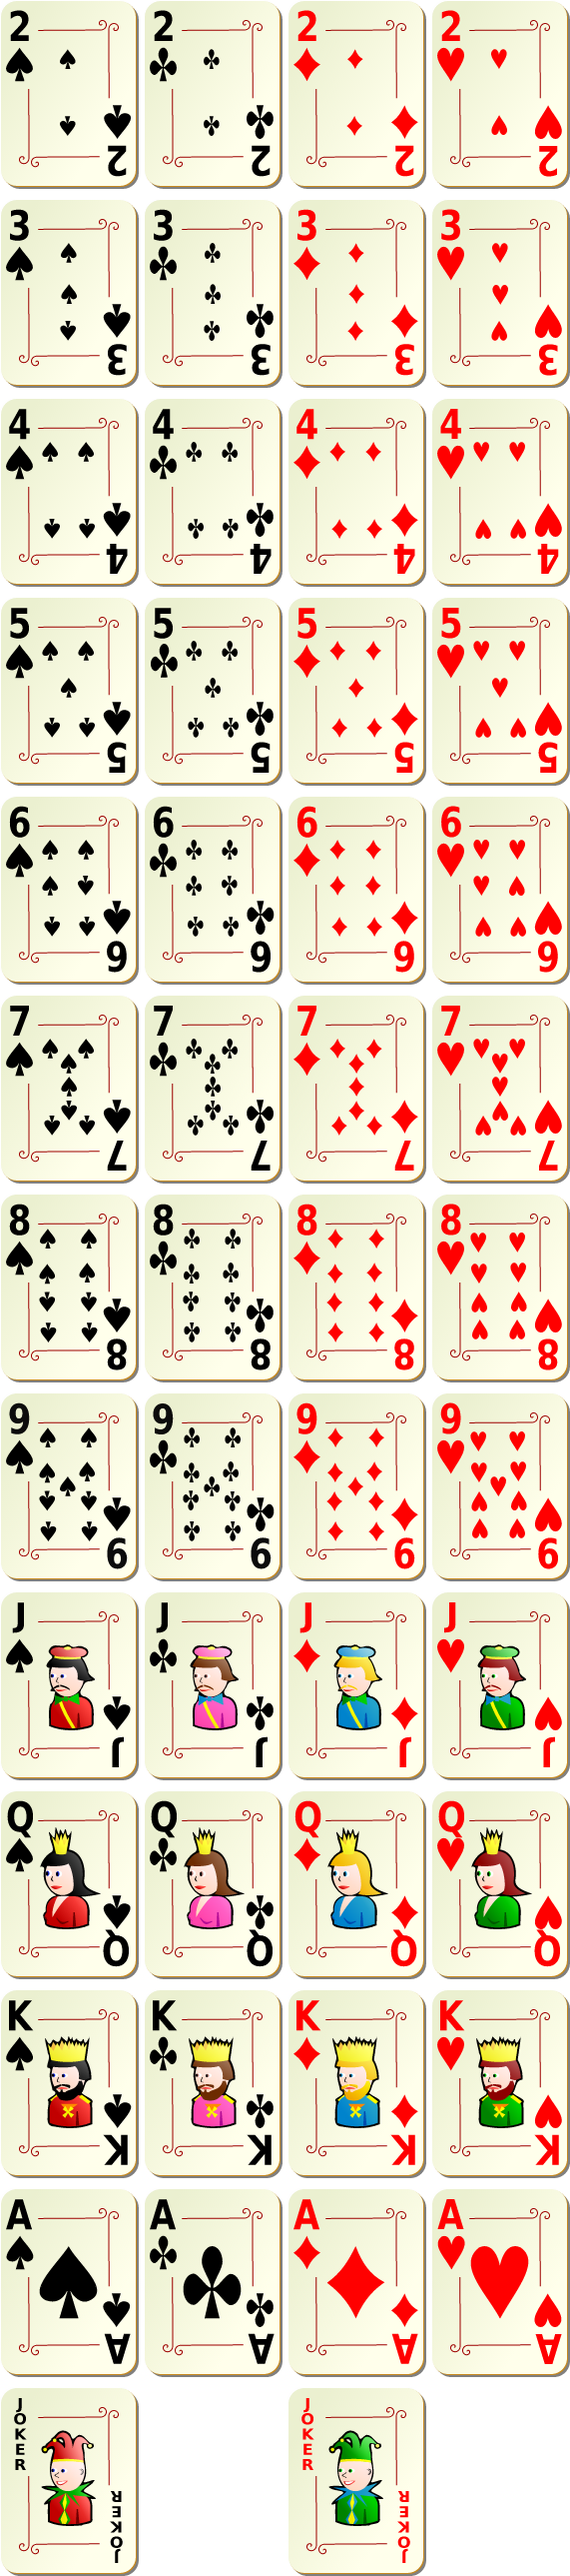
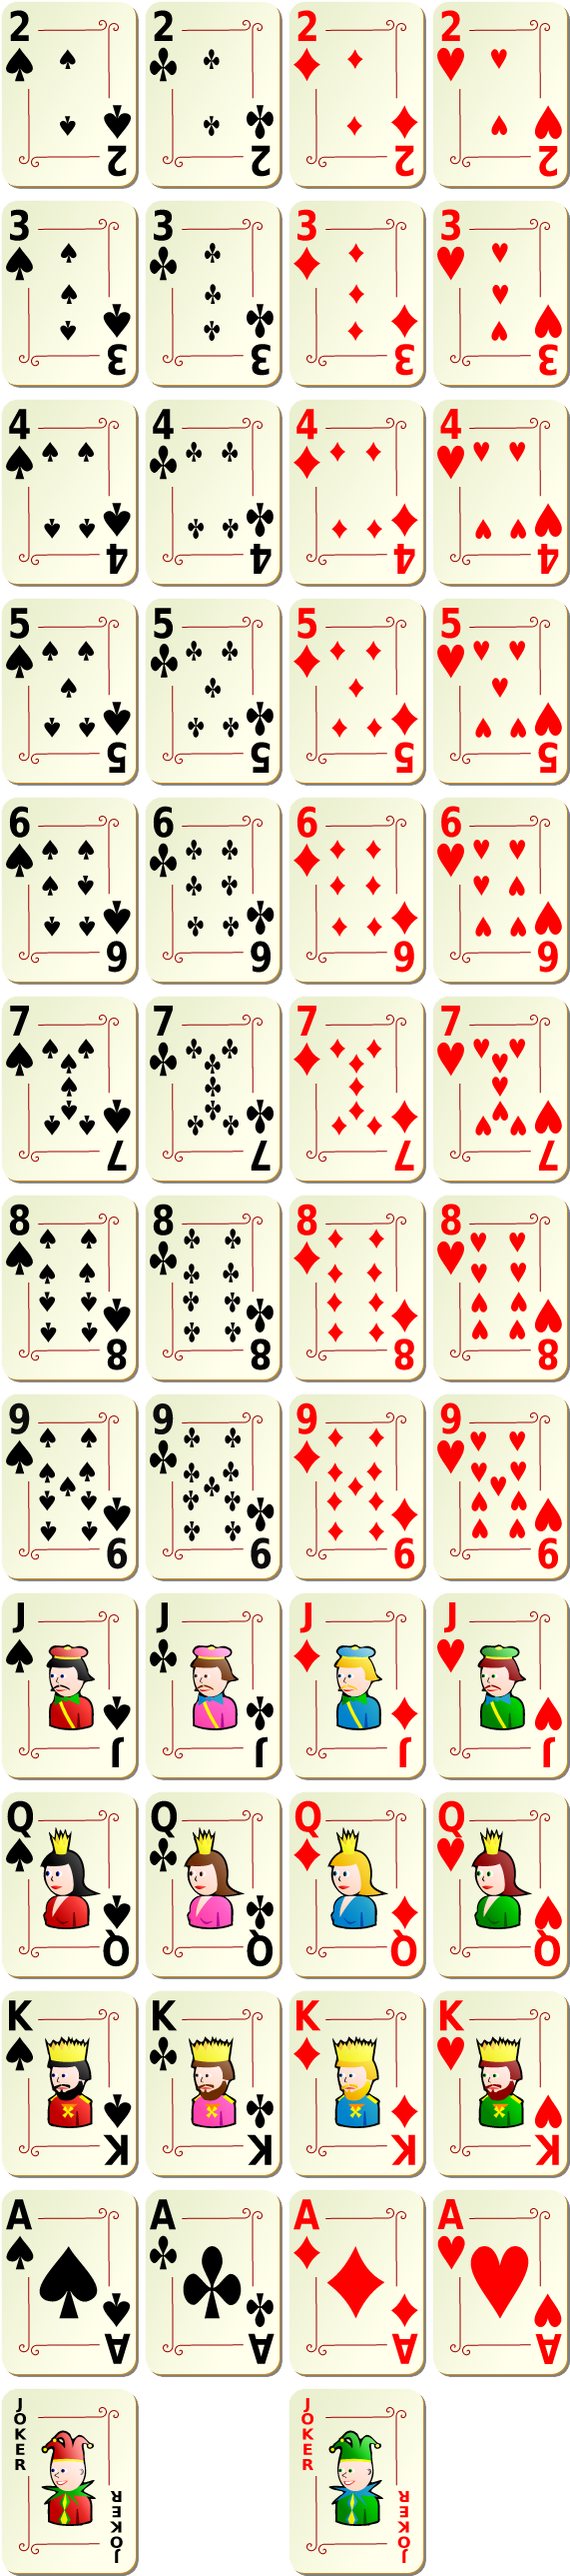
div_table_maket

diff --git a/Home_Works/Themes5/MAKET_DIV.html b/Home_Works/Themes5/MAKET_DIV.html
@@ -4,14 +4,15 @@
         <meta charset=UTF-8>
         <title>MAKET_DIV</title>
         <meta name="viewport" content="width=device-width, initial-scale=1.0">
+        <link rel="stylesheet" href="style_maket_div.css">
     </head>
-    <body style="margin: 0px;">
-        <div>
-            <div style="text-align: center; padding: 1px; background-color:rgb(159, 219, 228); color: blue;">
-                <h1>ПРИВЕТ УЧАСТНИКАМ СОРЕВНОВАНИЙ</h1></div>
-            <div style="font: bold 35px Times New Roman; padding: 45px 40px; width: 280px; float: left; 
-                        background-color: rgb(242, 231, 135);">Виды спорта:
-                <ul style="font: bold 30px Times New Roman;">
+    <body>
+        <div class="title">
+            <h1>ПРИВЕТ УЧАСТНИКАМ СОРЕВНОВАНИЙ</h1>
+        </div>
+        <div style="background-image: url('../../Медиавложения/MAKET_FOOTBALL/yellowbackground.jpg');">
+            <div class="menu">Виды спорта:
+                <ul>
                     <li><a href="http://ru.sport-wiki.org/vidy-sporta/basketbol/">баскетбол</a></li>
                     <li><a href="https://www.khl.ru/">хоккей</a></li>
                     <li><a href="https://www.sport-express.ru/tennis/">теннис</a></li>
@@ -21,28 +22,28 @@
                     <li><a href="https://www.sports.ru/boxing/">бокс</a></li>
                     <li><a href="https://dzen.ru/kulbansky_karate">карате</a></li>
                     <li><a href="https://lifehacker.ru/ajkido/">айкидо</a></li>
-                </ul>
-            </div>
-            <div style="background-image: url('../../Медиавложения/MAKET_FOOTBALL/pngegg.png');
-                        background-position: right; background-repeat: repeat-y; margin-left: 365px;">
-                <h2 align="center" style="font-size: 27px; margin-top: 0px;"><br>ФУТБОЛ</h2>
+                </ul>   
+            </div>   
+            <div class="content"
+                 style="background:
+                        url(../../Медиавложения/MAKET_FOOTBALL/pngegg.png) repeat-y right,
+                        url(../../Медиавложения/MAKET_FOOTBALL/белыйфон.jpg)">
+                <h2>ФУТБОЛ</h2>
                 <img src="../../Медиавложения/MAKET_FOOTBALL/FEUo5AhXwAA92Mx.jpg"
                      title="Football"
                      alt="Football"
-                     style="width: 25vw; margin: 0px 28px 28px 28px; float: left;">
-                <div style="font-size: 28px; padding-left: 25px;">Футбол - командный вид спорта, в котором целью является забить мяч в ворота 
-                    соперника ногами или другими частями тела (кроме рук) большее количество раз, чем команда соперника.<br>
-                    <br> 
-                    Есть 17 официальных правил игры, каждое из которых содержит список оговорок и руководящих принципов. 
-                    Эти правила предназначены для применения на всех уровнях футбола, хотя есть некоторые изменения для 
-                    таких групп, как юниоры, взрослые, женщины и люди с ограниченными физическими возможностями. Законы 
-                    очень часто формулировались в общих чертах, которые позволяют упростить их применение в зависимости 
-                    от характера игры.
-                <div style="clear: both"></div>
-                </div>
+                     class="image">                           
+                Футбол - командный вид спорта, в котором целью является забить мяч в ворота соперника ногами или 
+                другими частями тела (кроме рук) большее количество раз, чем команда соперника.
+                Есть 17 официальных правил игры, каждое из которых содержит список оговорок и руководящих принципов. 
+                Эти правила предназначены для применения на всех уровнях футбола, хотя есть некоторые изменения для 
+                таких групп, как юниоры, взрослые, женщины и люди с ограниченными физическими возможностями. Законы 
+                очень часто формулировались в общих чертах, которые позволяют упростить их применение в зависимости 
+                от характера игры.     
             </div>
-            <div style="text-align: center; padding: 2px; background-color:rgb(159, 219, 228); 
-                        color: blue;"><h1>ГЛАВНОЕ НЕ ПОБЕДА, А УЧАСТИЕ!</h1></div>
+        </div>
+        <div class="title footer">
+            <h1>ГЛАВНОЕ НЕ ПОБЕДА, А УЧАСТИЕ!</h1>
         </div>
     </body>
 </html>

diff --git a/Home_Works/Themes4/cards_sprite.html b/Home_Works/Themes4/cards_sprite.html
@@ -20,60 +20,59 @@
         <div class="nav" style="background-image: url('../../Медиавложения/Картыспрайт/cards.7e0a18f0.png');
                     background-repeat: no-repeat;
                     background-position: -430px -1590px;
-                    width: 142px; height: 193px;
-                    border: solid rgb(206, 206, 206) 1px">
+                    width: 142px; height: 193px;">
         </div>
         <div class="nav" style="background-image: url('../../Медиавложения/Картыспрайт/cards.7e0a18f0.png');
                     background-repeat: no-repeat;
                     background-position: 0px -1789px;
-                    width: 142px; height: 193px;
-                    border: solid rgb(206, 206, 206) 1px">
+                    width: 142px; height: 193px;">
         </div>
         <div class="nav" style="background-image: url('../../Медиавложения/Картыспрайт/cards.7e0a18f0.png');
                     background-repeat: no-repeat;
                     background-position: -287px -1391px;
-                    width: 142px; height: 193px;
-                    border: solid rgb(206, 206, 206) 1px">
+                    width: 142px; height: 193px;">
         </div>
         <div class="nav" style="background-image: url('../../Медиавложения/Картыспрайт/cards.7e0a18f0.png');
                     background-repeat: no-repeat;
                     background-position: -142px -2187px;
-                    width: 142px; height: 193px;
-                    border: solid rgb(206, 206, 206) 1px">
+                    width: 142px; height: 193px;">
         </div>
         <div class="nav" style="background-image: url('../../Медиавложения/Картыспрайт/cards.7e0a18f0.png');
                     background-repeat: no-repeat;
                     background-position: -287px -2383px;
-                    width: 142px; height: 193px;
-                    border: solid rgb(206, 206, 206) 1px">
+                    width: 142px; height: 193px;">
         </div>
         <hr>
         <h2 style="font-family: 'Montserrat Alternates', sans-serif;">Результат 2</h2>
         <div style="background-image: url('../../Медиавложения/Картыспрайт/cards.7e0a18f0.png');
                     background-repeat: no-repeat;
                     background-position: -430px -1590px;
+                    width: 142px; height: 193px;">
+        </div>
+        <div style="background-image: url('../../Медиавложения/Картыспрайт/cards.7e0a18f0.png');
+                    background-repeat: no-repeat;
+                    background-position: 0px -1789px;
                     width: 142px; height: 193px;
-                    border: solid rgb(206, 206, 206) 1px">
-            <div style="background-image: url('../../Медиавложения/Картыспрайт/cards.7e0a18f0.png');
-                        background-repeat: no-repeat;
-                        background-position: 0px -1789px;
-                        width: 142px; height: 193px;
-                        border: solid rgb(206, 206, 206) 1px">
-                <div style="background-image: url('../../Медиавложения/Картыспрайт/cards.7e0a18f0.png');
-                            background-repeat: no-repeat;
-                            background-position: -287px -1391px;
-                            width: 142px; height: 193px;
-                            border: solid rgb(206, 206, 206) 1px">
-                    <div style="background-image: url('../../Медиавложения/Картыспрайт/cards.7e0a18f0.png');
-                                background-repeat: no-repeat;
-                                background-position: -142px -2187px;
-                                width: 142px; height: 193px;
-                                border: solid rgb(206, 206, 206) 1px">
-                        <div style="background-image: url('../../Медиавложения/Картыспрайт/cards.7e0a18f0.png');
-                                    background-repeat: no-repeat;
-                                    background-position: -287px -2383px;
-                                    width: 142px; height: 193px;
-                                    border: solid rgb(206, 206, 206) 1px">
-        </div></div></div></div>
+                    margin-top: -105px; margin-left: 97px;">
+        </div>
+        <div style="background-image: url('../../Медиавложения/Картыспрайт/cards.7e0a18f0.png');
+                    background-repeat: no-repeat;
+                    background-position: -287px -1391px;
+                    width: 142px; height: 193px;
+                    margin-top: -105px; margin-left: 183px;">
+        </div>
+        <div style="background-image: url('../../Медиавложения/Картыспрайт/cards.7e0a18f0.png');
+                    background-repeat: no-repeat;
+                    background-position: -142px -2187px;
+                    width: 142px; height: 193px;
+                    margin-top: -105px; margin-left: 262px;">
+        </div>
+        <div style="background-image: url('../../Медиавложения/Картыспрайт/cards.7e0a18f0.png');
+                    background-repeat: no-repeat;
+                    background-position: -287px -2383px;
+                    width: 142px; height: 193px;
+                    margin-top: -105px; margin-left: 351px;">
+        </div>
+        
     </body>
 </html>

diff --git a/Home_Works/Themes4/DIV_FRAME_one_teg.html b/Home_Works/Themes4/DIV_FRAME_one_teg.html
@@ -7,16 +7,20 @@
         <link rel="stylesheet" href="../../Fonts/Comfortaa/font.css">
     </head>
     <body>
-        <div style="background: url('../../Медиавложения/ramka/22.png') repeat-y left">
-        <div style="background: url('../../Медиавложения/ramka/33.png') repeat-y right">
-        <div style="background: url('../../Медиавложения/ramka/11.png') repeat-x top">
-        <div style="background: url('../../Медиавложения/ramka/44.png') repeat-x bottom">
-        <div style="background: url('../../Медиавложения/ramka/6.png') no-repeat left bottom">
-        <div style="background: url('../../Медиавложения/ramka/5.png') no-repeat left top">
-        <div style="background: url('../../Медиавложения/ramka/8.png') no-repeat right bottom">
-        <div style="background: url('../../Медиавложения/ramka/7.png') no-repeat right top"> 
-        <div style="min-width: 150px; margin: 50px auto; padding: 80px;	 font-family: 'Comfortaa-VariableFont_wght'">
-            <h2>Юрий Визбор. Вечно студенческие.</h2>
+        <div style="background:
+            url('../../Медиавложения/ramka/6.png') no-repeat left bottom,
+            url('../../Медиавложения/ramka/5.png') no-repeat left top,
+            url('../../Медиавложения/ramka/8.png') no-repeat right bottom,
+            url('../../Медиавложения/ramka/7.png') no-repeat right top,
+            url('../../Медиавложения/ramka/22.png') repeat-y left,
+            url('../../Медиавложения/ramka/33.png') repeat-y right,
+            url('../../Медиавложения/ramka/11.png') repeat-x top,
+            url('../../Медиавложения/ramka/44.png') repeat-x bottom;
+                min-width: 150px;
+                margin: 50px auto;
+                padding: 80px;	
+                font-family: 'Comfortaa-VariableFont_wght'">
+                    <h2>Юрий Визбор. Вечно студенческие.</h2>
 
                     Когда  пишут  или  говорят  о  студенческих  песнях,  многие
                     впадают в ошибку - путают  студенческие  песни  с  туристскими.
@@ -72,7 +76,7 @@
                     поют "Гаудеамус". В нем слышится романтический порыв молодости,
                     призыв верно  служить  своему  народу.  Недавно  "Комсомольская
                     правда" провела конкурс  на  лучший  перевод  старинного  гимна
-                    студентов. Победительницей в конкурсе вышла Новелла Матвеева.</div>
-        </div></div></div></div></div></div></div></div>
+                    студентов. Победительницей в конкурсе вышла Новелла Матвеева.
+        </div>
     </body>
 </html>

diff --git a/Home_Works/Themes4/AREA.html b/Home_Works/Themes4/AREA.html
@@ -12,7 +12,7 @@
         <map name="TEGAREA"> 
             <area shape="rect" coords="20,20,369,660" 
                   title="Тема 1" href="../Themes1/DIARY.html" target=_blank> 
-            <area shape="circle"" coords="640, 175, 145" 
+            <area shape="circle" coords="640, 175, 145" 
                   title="Тема 2" href="../Themes2/CHILDBOOK.html" target=_blank> 
             <area shape="poly" coords="795, 425, 970, 300, 1145, 428, 1079, 625, 860, 623" 
                   title="Тема 3" href="../../Home_Works/Themes3/FONT_GWF.html" target=_blank> 

diff --git a/Home_Works/Themes5/style_maket_div.css b/Home_Works/Themes5/style_maket_div.css
@@ -1,0 +1,38 @@
+body {
+    margin: 0px;
+}
+
+h2 {
+    text-align: center;
+    font-size: 27px;
+    margin-top: 0px;
+}
+
+.title {
+    text-align: center;
+    padding: 1px;
+    background-color:#add8e6; color: #0000ff;
+}
+
+.footer {
+    padding: 10px;
+}
+
+.menu {
+    font: bold
+    30px Times New Roman;
+    width: 280px; padding:
+    20px; float: left;
+}
+
+.content {
+    margin-left:
+    300px; padding: 30px;
+    font-size: 30px;
+}
+
+.image {
+    width: 25vw;
+    margin-right: 30px;
+    float: left;
+}

diff --git a/index.html b/index.html
@@ -51,6 +51,8 @@
         <p>
             <a href="Home_Works/Themes4/DIV_FRAME.html">DIV_FRAME</a><br>
         <br>
+            <a href="Home_Works/Themes4/DIV_FRAME_one_teg.html">DIV_FRAME_one_teg</a><br>
+        <br>
             <a href="Home_Works/Themes4/AREA.html">Teg_AREA</a><br>
         <br>
             <a href="Home_Works/Themes4/frame_without_cutting.html">Frame_Without_Cutting</a><br>
